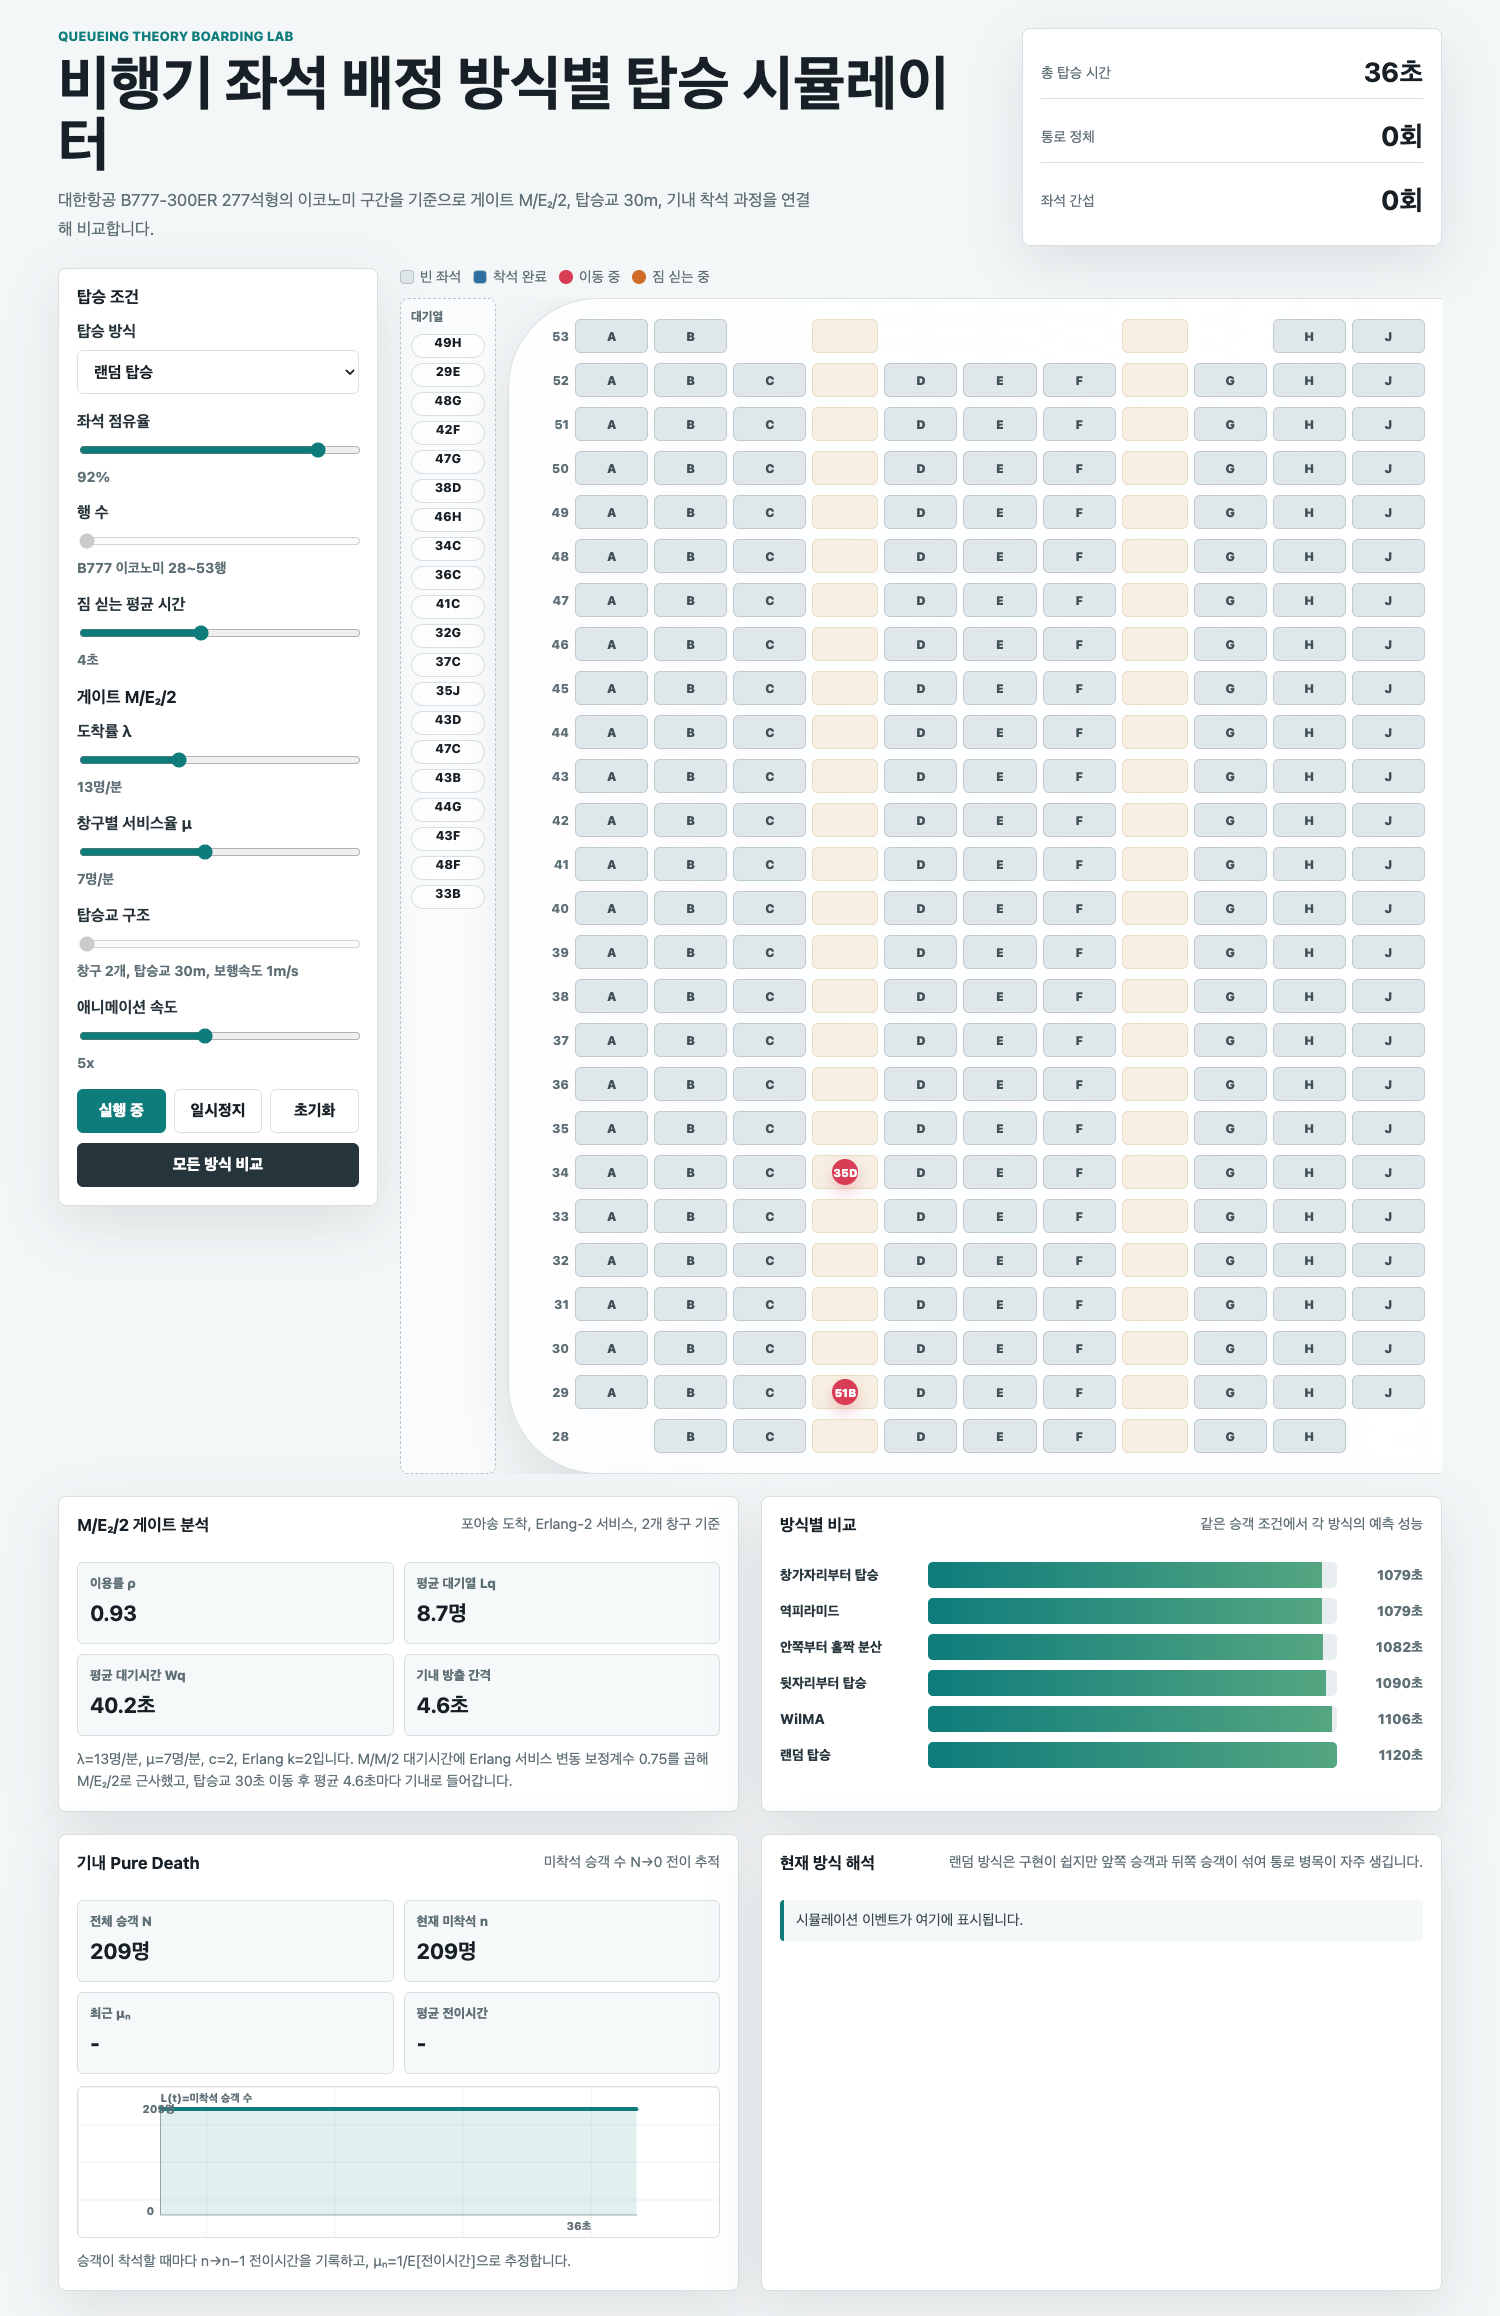
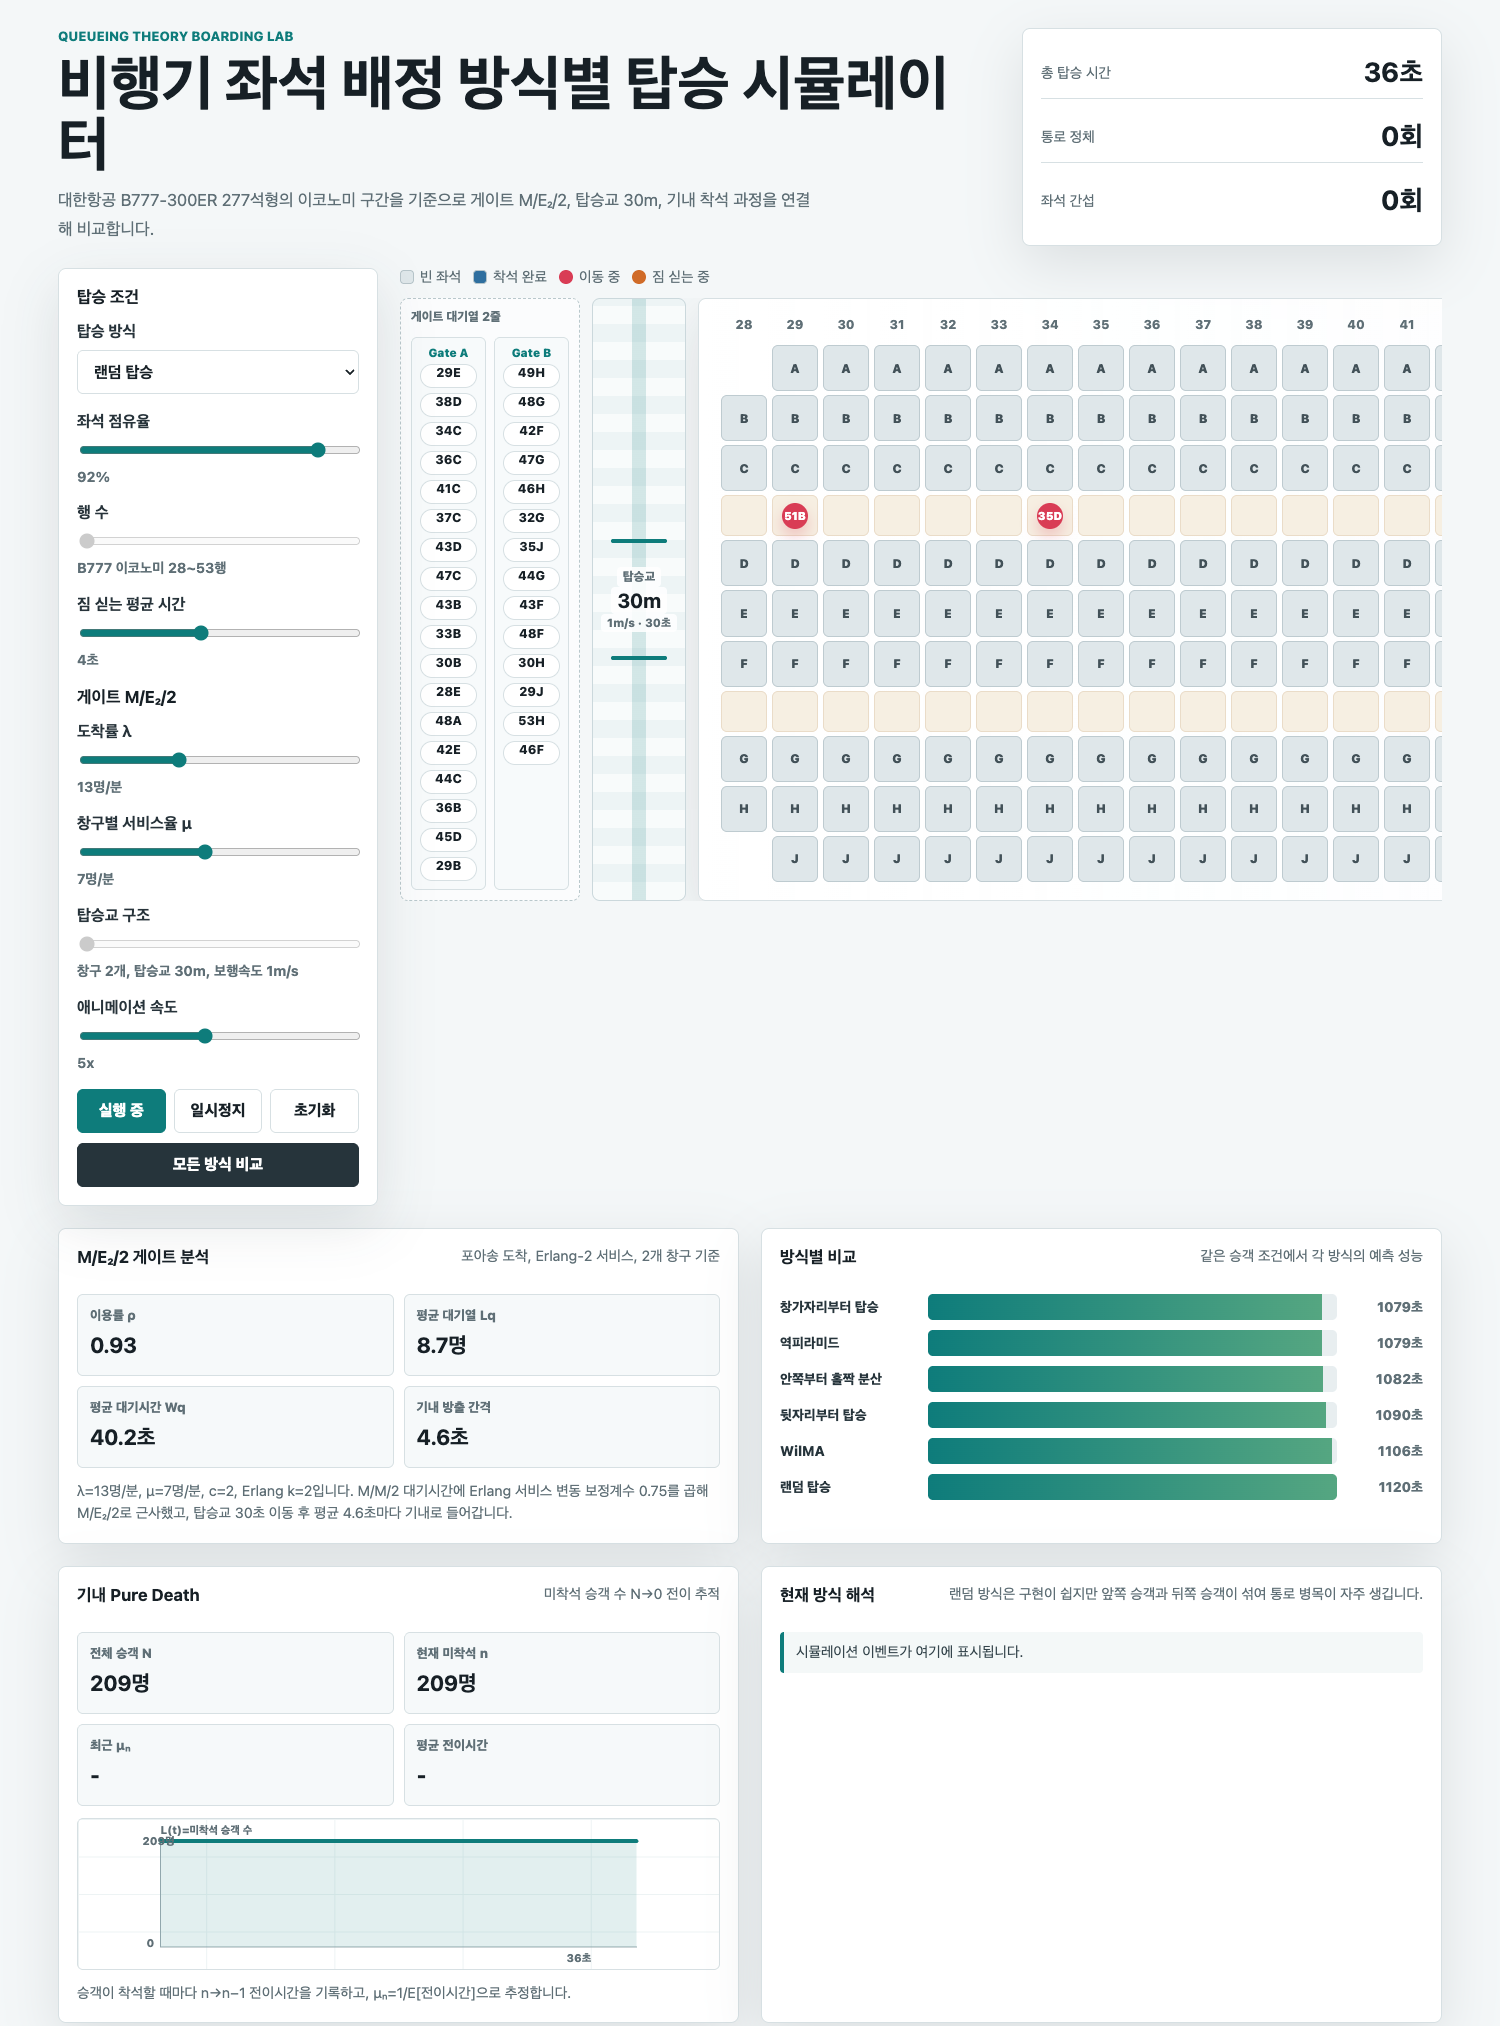
Show gate-to-seat flow horizontally

Changed region(s): [[0.0307, 0.0, 0.9813, 0.9951], [0.5213, 0.964, 0.9507, 0.9951], [0.1227, 0.0622, 0.1533, 0.0933]]

diff --git a/styles.css b/styles.css
@@ -254,16 +254,18 @@ button.wide {
 
 .aircraft-wrap {
   display: grid;
-  grid-template-columns: 96px minmax(860px, 1fr);
+  grid-template-columns: 180px 94px minmax(980px, 1fr);
   gap: 12px;
   overflow-x: auto;
+  align-items: stretch;
 }
 
 .queue {
   display: grid;
-  align-content: start;
-  gap: 5px;
-  min-height: 560px;
+  grid-template-columns: repeat(2, minmax(0, 1fr));
+  align-content: stretch;
+  gap: 8px;
+  min-height: 360px;
   padding: 10px;
   border: 1px dashed #b9c8cc;
   border-radius: 8px;
@@ -271,10 +273,29 @@ button.wide {
 }
 
 .queue-label {
+  grid-column: 1 / -1;
   margin-bottom: 4px;
   color: var(--muted);
   font-size: 0.78rem;
   font-weight: 800;
+}
+
+.gate-lane {
+  display: grid;
+  align-content: start;
+  gap: 5px;
+  min-height: 310px;
+  padding: 8px;
+  border-radius: 6px;
+  background: #f7fafb;
+  border: 1px solid var(--line);
+}
+
+.gate-lane-title {
+  color: var(--accent);
+  font-size: 0.72rem;
+  font-weight: 900;
+  text-align: center;
 }
 
 .queue-chip {
@@ -289,32 +310,93 @@ button.wide {
   font-weight: 800;
 }
 
+.jetbridge {
+  position: relative;
+  display: grid;
+  place-items: center;
+  align-content: center;
+  min-height: 360px;
+  border-radius: 8px;
+  border: 1px solid #cbd8dc;
+  background:
+    linear-gradient(90deg, transparent 0 42%, rgba(14, 124, 123, 0.16) 42% 58%, transparent 58%),
+    repeating-linear-gradient(0deg, #f8fbfb, #f8fbfb 18px, #edf4f5 18px, #edf4f5 36px);
+  color: var(--muted);
+  text-align: center;
+}
+
+.jetbridge::before,
+.jetbridge::after {
+  content: "";
+  position: absolute;
+  left: 18px;
+  right: 18px;
+  height: 4px;
+  border-radius: 999px;
+  background: var(--accent);
+}
+
+.jetbridge::before {
+  top: 40%;
+}
+
+.jetbridge::after {
+  bottom: 40%;
+}
+
+.jetbridge span,
+.jetbridge strong,
+.jetbridge small {
+  position: relative;
+  z-index: 1;
+  background: rgba(255, 255, 255, 0.86);
+  padding: 2px 6px;
+  border-radius: 4px;
+}
+
+.jetbridge span {
+  font-size: 0.78rem;
+  font-weight: 900;
+}
+
+.jetbridge strong {
+  color: var(--ink);
+  font-size: 1.25rem;
+}
+
+.jetbridge small {
+  font-size: 0.72rem;
+  font-weight: 800;
+}
+
 .aircraft {
   display: grid;
-  gap: 6px;
-  min-width: 940px;
+  grid-auto-flow: column;
+  grid-auto-columns: minmax(46px, 1fr);
+  gap: 5px;
+  min-width: 1180px;
   padding: 18px 22px;
-  border-radius: 90px 8px 8px 90px;
+  border-radius: 8px 110px 110px 8px;
   background:
-    linear-gradient(90deg, rgba(255, 255, 255, 0.92), rgba(255, 255, 255, 0.98)),
-    repeating-linear-gradient(0deg, rgba(14, 124, 123, 0.05), rgba(14, 124, 123, 0.05) 12px, transparent 12px, transparent 28px);
+    linear-gradient(90deg, rgba(255, 255, 255, 0.98), rgba(255, 255, 255, 0.9)),
+    repeating-linear-gradient(90deg, rgba(14, 124, 123, 0.05), rgba(14, 124, 123, 0.05) 12px, transparent 12px, transparent 28px);
   border: 1px solid var(--line);
   box-shadow: var(--shadow);
 }
 
 .row {
   display: grid;
-  grid-template-columns: 38px repeat(3, minmax(42px, 1fr)) minmax(52px, 0.9fr) repeat(3, minmax(42px, 1fr)) minmax(52px, 0.9fr) repeat(3, minmax(42px, 1fr));
-  gap: 6px;
-  align-items: center;
-  min-height: 38px;
+  grid-template-rows: 24px repeat(3, minmax(30px, 1fr)) minmax(36px, 0.9fr) repeat(3, minmax(30px, 1fr)) minmax(36px, 0.9fr) repeat(3, minmax(30px, 1fr));
+  gap: 4px;
+  align-items: stretch;
+  min-width: 44px;
 }
 
 .row-number {
   color: var(--muted);
   font-size: 0.78rem;
   font-weight: 800;
-  text-align: right;
+  text-align: center;
 }
 
 .seat,
@@ -323,6 +405,7 @@ button.wide {
   display: grid;
   place-items: center;
   min-height: 34px;
+  min-width: 32px;
   border-radius: 6px;
 }
 
@@ -558,7 +641,7 @@ button.wide {
   }
 
   .aircraft-wrap {
-    grid-template-columns: 84px minmax(920px, 1fr);
+    grid-template-columns: 170px 88px minmax(1120px, 1fr);
   }
 
   .bar-row {

diff --git a/app.js b/app.js
@@ -376,7 +376,7 @@ function renderAircraft() {
   const sim = state.sim;
   els.aircraft.innerHTML = "";
 
-  for (let row = lastEconomyRow; row >= firstEconomyRow; row -= 1) {
+  for (let row = firstEconomyRow; row <= lastEconomyRow; row += 1) {
     const rowEl = document.createElement("div");
     rowEl.className = "row";
 
@@ -432,14 +432,19 @@ function renderPassenger(passenger) {
 
 function renderQueue() {
   const sim = state.sim;
-  els.queue.innerHTML = '<div class="queue-label">대기열</div>';
+  els.queue.innerHTML = `
+    <div class="queue-label">게이트 대기열 2줄</div>
+    <div class="gate-lane" data-lane="0"><div class="gate-lane-title">Gate A</div></div>
+    <div class="gate-lane" data-lane="1"><div class="gate-lane-title">Gate B</div></div>
+  `;
   if (!sim) return;
-  const waiting = sim.passengers.slice(sim.nextIndex, sim.nextIndex + 20);
+  const laneEls = els.queue.querySelectorAll(".gate-lane");
+  const waiting = sim.passengers.slice(sim.nextIndex, sim.nextIndex + 32);
   for (const passenger of waiting) {
     const chip = document.createElement("div");
     chip.className = "queue-chip";
     chip.textContent = passenger.label;
-    els.queue.appendChild(chip);
+    laneEls[passenger.aisleIndex]?.appendChild(chip);
   }
 }
 

diff --git a/index.html b/index.html
@@ -110,6 +110,11 @@
           </div>
           <div class="aircraft-wrap">
             <div id="queue" class="queue" aria-label="탑승 대기열"></div>
+            <div class="jetbridge" aria-label="탑승교">
+              <span>탑승교</span>
+              <strong>30m</strong>
+              <small>1m/s · 30초</small>
+            </div>
             <div id="aircraft" class="aircraft" aria-label="항공기 좌석 배치"></div>
           </div>
         </section>